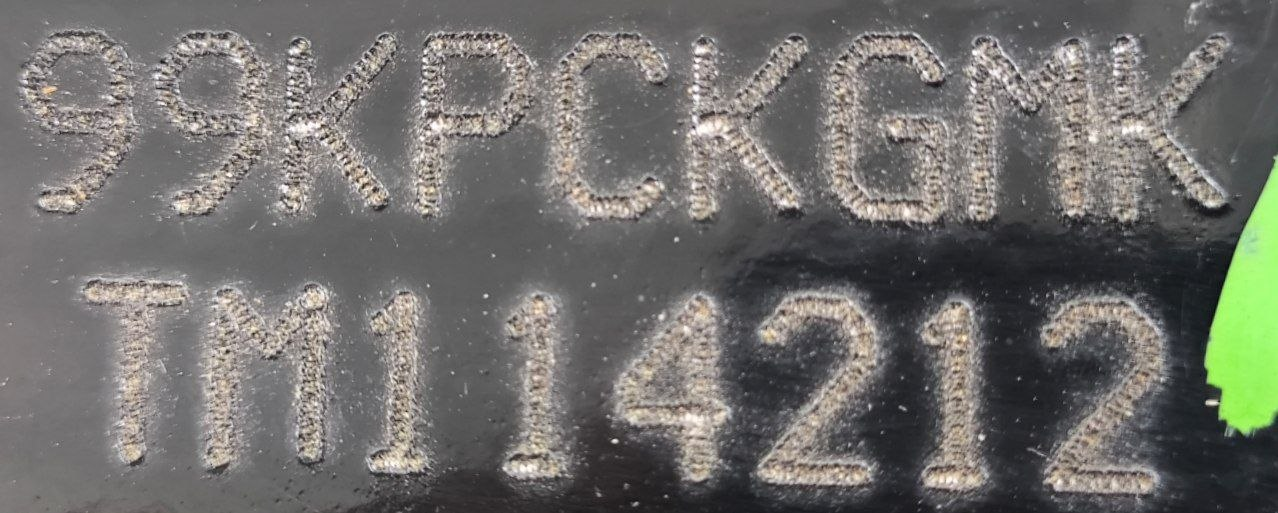
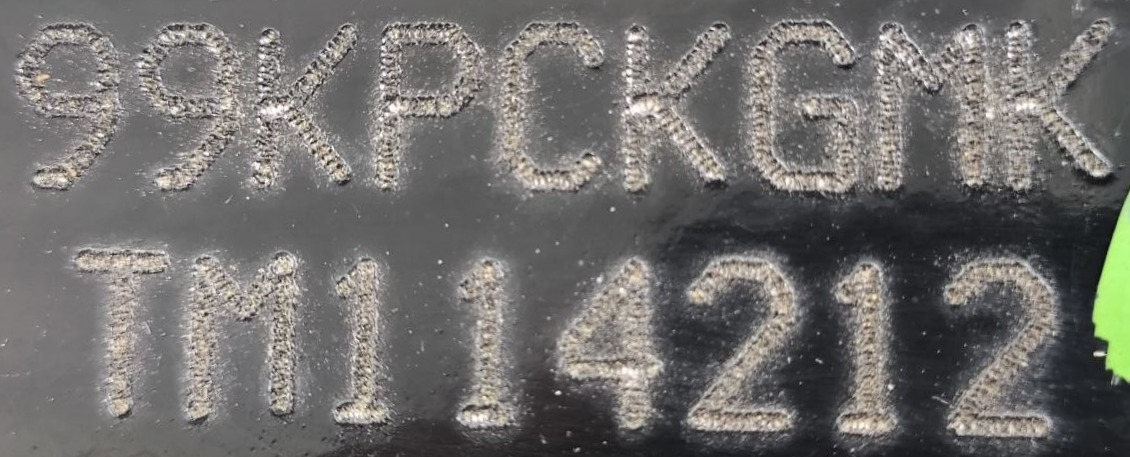
Update 13072026
Update 13072026

diff --git a/index.html b/index.html
@@ -443,6 +443,7 @@
         "162FMJ3DA061791.jpg",
         "162FMJ3FA050703.jpg",
         "162FMJRC052090.jpg",
+        "162FMJTB046857.jpg",
         "1879316.jpg",
         "1P39FMADE058828.jpg",
         "1P39FMAEA147964.jpg",
@@ -463,6 +464,7 @@
         "3FTTW8NA0SRB03482.jpg",
         "4112818.jpg",
         "463510128107945.jpg",
+        "4712240.jpg",
         "4989061.jpg",
         "4D0037037.jpg",
         "4G164155 VIS 1.JPG",
@@ -482,6 +484,7 @@
         "7903076.jpg",
         "7G250351.JPG",
         "8A1BB8W05BL682275.JPG",
+        "8ADUWNFX2RG550472.jpg",
         "8AGSU19F0ER100458 1.jpg",
         "8AGSU19F0ER100458 2.jpg",
         "8AGSU19F0ER100458 3.jpg",
@@ -523,6 +526,7 @@
         "95VGA1G288M027371.jpg",
         "988611132LK306067.jpg",
         "98M5Z1008L4A91567.jpg",
+        "99HJF1150TS011180.jpg",
         "99HSHF175TS015964 ETA.jpg",
         "99KPCKGMKTM114212.jpg",
         "9A9R11DPX31AH8136.jpg",
@@ -540,6 +544,7 @@
         "9BD2651JHM9164317.JPG",
         "9BD376A11RYB63433.JPG",
         "9BD376A31PYB11294.jpg",
+        "9BFZF10B658331984.jpg",
         "9BFZF55P0B8164724.jpg",
         "9BFZZZ54ZNB247402.jpg",
         "9BG124ARTTC931920.JPG",
@@ -569,6 +574,7 @@
         "9BM694000BB756335.jpg",
         "9BR53ZEC248541935 2.jpg",
         "9BR53ZEC248541935.jpg",
+        "9BR72ZEC268635751.jpg",
         "9BRB29BT3E2034825 ETA.jpg",
         "9BRB33BE2R2200706.jpg",
         "9BRBC3F3XR8262117 ETA PORTA.jpg",
@@ -639,6 +645,7 @@
         "9C2JC3010YR004946.jpg",
         "9C2JC3010YR009087.jpg",
         "9C2JC3010YR090325.jpg",
+        "9C2JC30204R013195.jpg",
         "9C2JC30303R101884.jpg",
         "9C2JC30705R006377.JPG",
         "9C2JC30708R133213.jpg",
@@ -693,6 +700,7 @@
         "9C2KD0550CR537873.jpg",
         "9C2KD0550ER223553.jpg",
         "9C2KD0810GR411290.jpg",
+        "9C2KD0810PR022821.jpg",
         "9C2KD1000HR024148.jpg",
         "9C2MC35002R016748.jpg",
         "9C2MC35003R000426.jpg",
@@ -718,6 +726,7 @@
         "9C6RH0940R0009135.png",
         "9CDNF41LJ9M296403.jpg",
         "9G104478.jpg",
+        "A10A10A2121026B.jpg",
         "A1C8003404.jpg",
         "A2G9001394.jpg",
         "A3DB000186.jpg",
@@ -748,6 +757,7 @@
         "CG125BR-1227220.jpg",
         "CG125BR-1404547.jpg",
         "CG125BR1049635.jpg",
+        "CG125BR1101643.jpg",
         "CG125BR1115583.jpg",
         "CG125BR1138748.JPG",
         "CG125BR1170379.jpg",
@@ -807,6 +817,7 @@
         "GCB012483.jpg",
         "GFG112863.jpg",
         "H403E-032543.jpg",
+        "HA07E-3009511.jpg",
         "HA07E14043957.jpg",
         "HA07EY033473.jpg",
         "HA07EY211113.jpg",
@@ -833,6 +844,7 @@
         "JBD7062109.jpg",
         "JBL7079210.jpg",
         "JC18E-2032633.jpg",
+        "JC18E-2061771.jpg",
         "JC18E2012492.jpg",
         "JC18E2013752.jpg",
         "JC18E2026197.jpg",
@@ -846,6 +858,8 @@
         "JC18E4109725.jpg",
         "JC18ERR19149.jpg",
         "JC18ESS80917.JPG",
+        "JC25E-RS24377.jpg",
+        "JC25E-W153557.jpg",
         "JC25ESS66016.jpg",
         "JC25ET010009.jpg",
         "JC25EV131045.jpg",
@@ -868,9 +882,11 @@
         "JC30E1Y009087.jpg",
         "JC30E1Y090325.jpg",
         "JC30E1Y159063.jpg",
+        "JC30E24013195.jpg",
         "JC30E33101884.jpg",
         "JC30E75006377.JPG",
         "JC30E76864080.JPG",
+        "JC30E76942306.jpg",
         "JC30E77132260.jpg",
         "JC30E78015269.jpg",
         "JC30E78249126.jpg",
@@ -901,7 +917,9 @@
         "JL1P39FMB10T013409.jpg",
         "JL1P39FMB10T020030.jpg",
         "JL1P39FMB11T007441.jpg",
+        "JMY0RV450WJ800372.jpg",
         "JTS083574.jpg",
+        "JYARJ12E17A011379.jpg",
         "KC08E14077165.jpg",
         "KC08E15002506.jpg",
         "KC08E15047142.jpg",
@@ -918,6 +936,7 @@
         "KC08E36801816.jpg",
         "KC08E55029292.jpg",
         "KC08E57041898.jpg",
+        "KC16E19041949.jpg",
         "KC16E1A006830.jpg",
         "KC16E1A027431.jpg",
         "KC16E2A029130.jpg",
@@ -944,11 +963,14 @@
         "KC25E0N065737.jpg",
         "KC25E0N089679.jpg",
         "KC25E0P016881.jpg",
+        "KC25E0P111738.jpg",
         "KC25E0R122352.jpg",
         "KC25E0R122980.jpg",
         "KC25E0S171758.JPG",
+        "KC25E0T403796.jpg",
         "KD03E38028713.jpg",
         "KD04E29502044.jpg",
+        "KD05E4C543349.jpg",
         "KD05E5C537873.jpg",
         "KD08E1G411290.jpg",
         "KD10E0H024180.jpg",
@@ -985,6 +1007,7 @@
         "LXYXCBL08D0439111.jpg",
         "LXYXCBL0XC0539970.jpg",
         "LXYXCBL0XD0453155.jpg",
+        "M432E-002769.jpg",
         "MC1P021257.jpg",
         "MC35E2016748.jpg",
         "MC35E3000426.jpg",
@@ -1006,9 +1029,11 @@
         "PC48E2G100299.jpg",
         "PE0017825 REGRAVAÇÃO DETRAN.JPG",
         "Q40052924.jpg",
+        "R18A68106843.jpg",
         "RB198592.jpg",
         "SP0345846 REGRAVAÇÃO DETRAN.jpg",
         "SP1RA108068A18224.jpg",
+        "TJ648522.jpg",
         "TX002799.jpg",
         "WY139FMA12812133.jpg",
         "WY139FMA12818513.jpg",